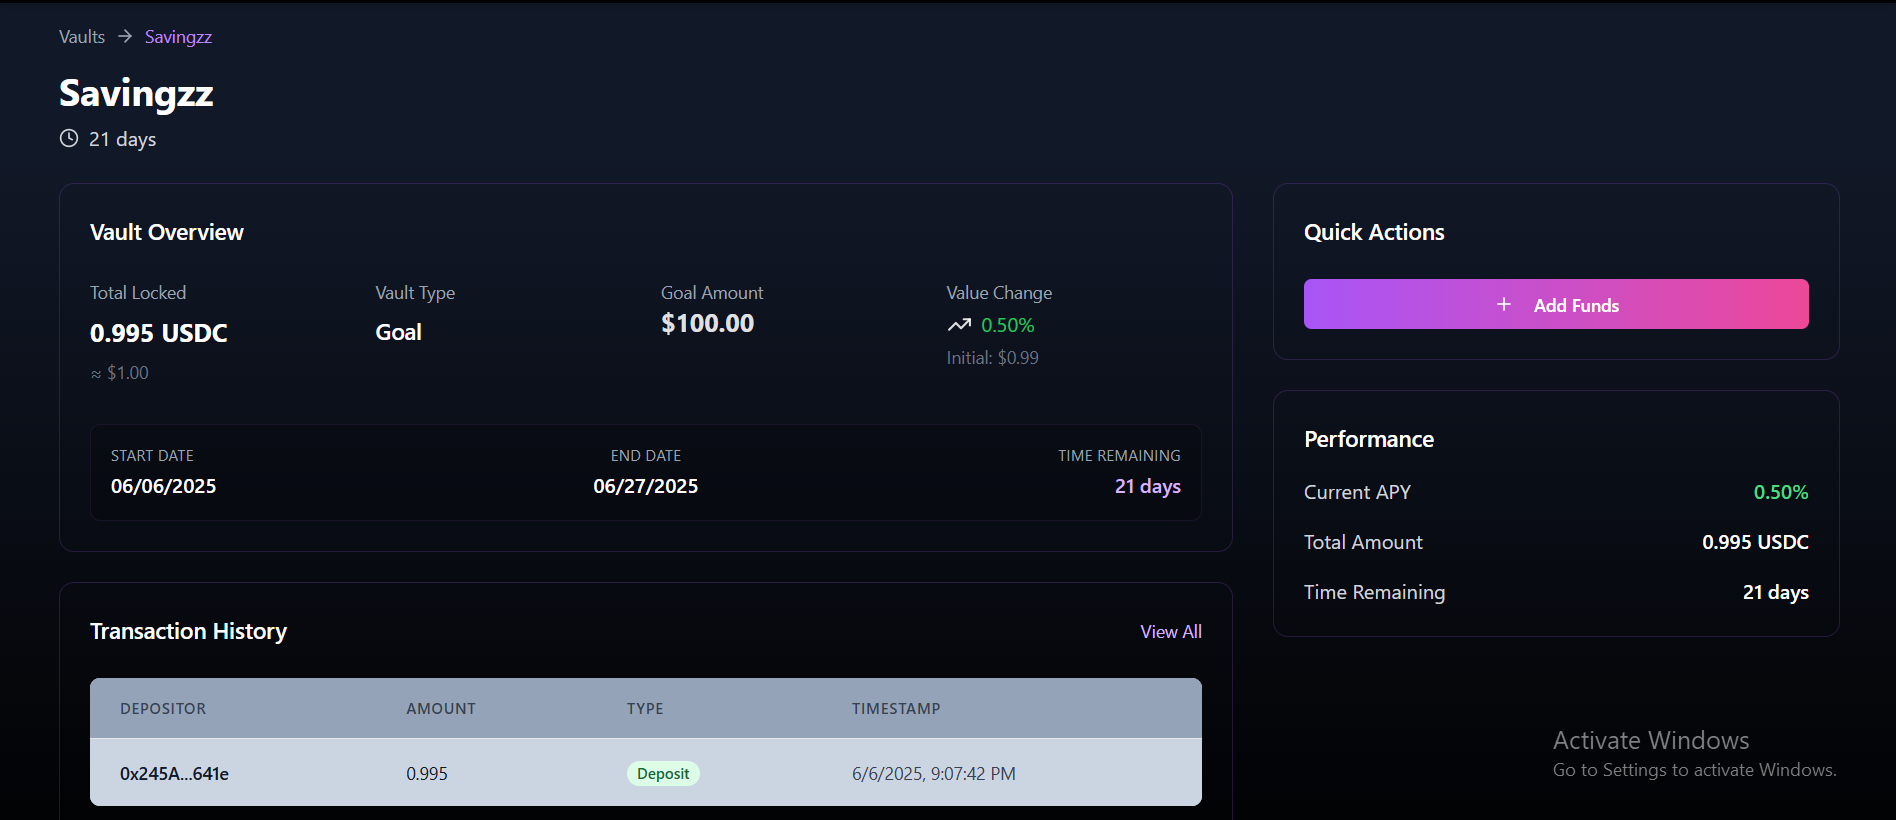
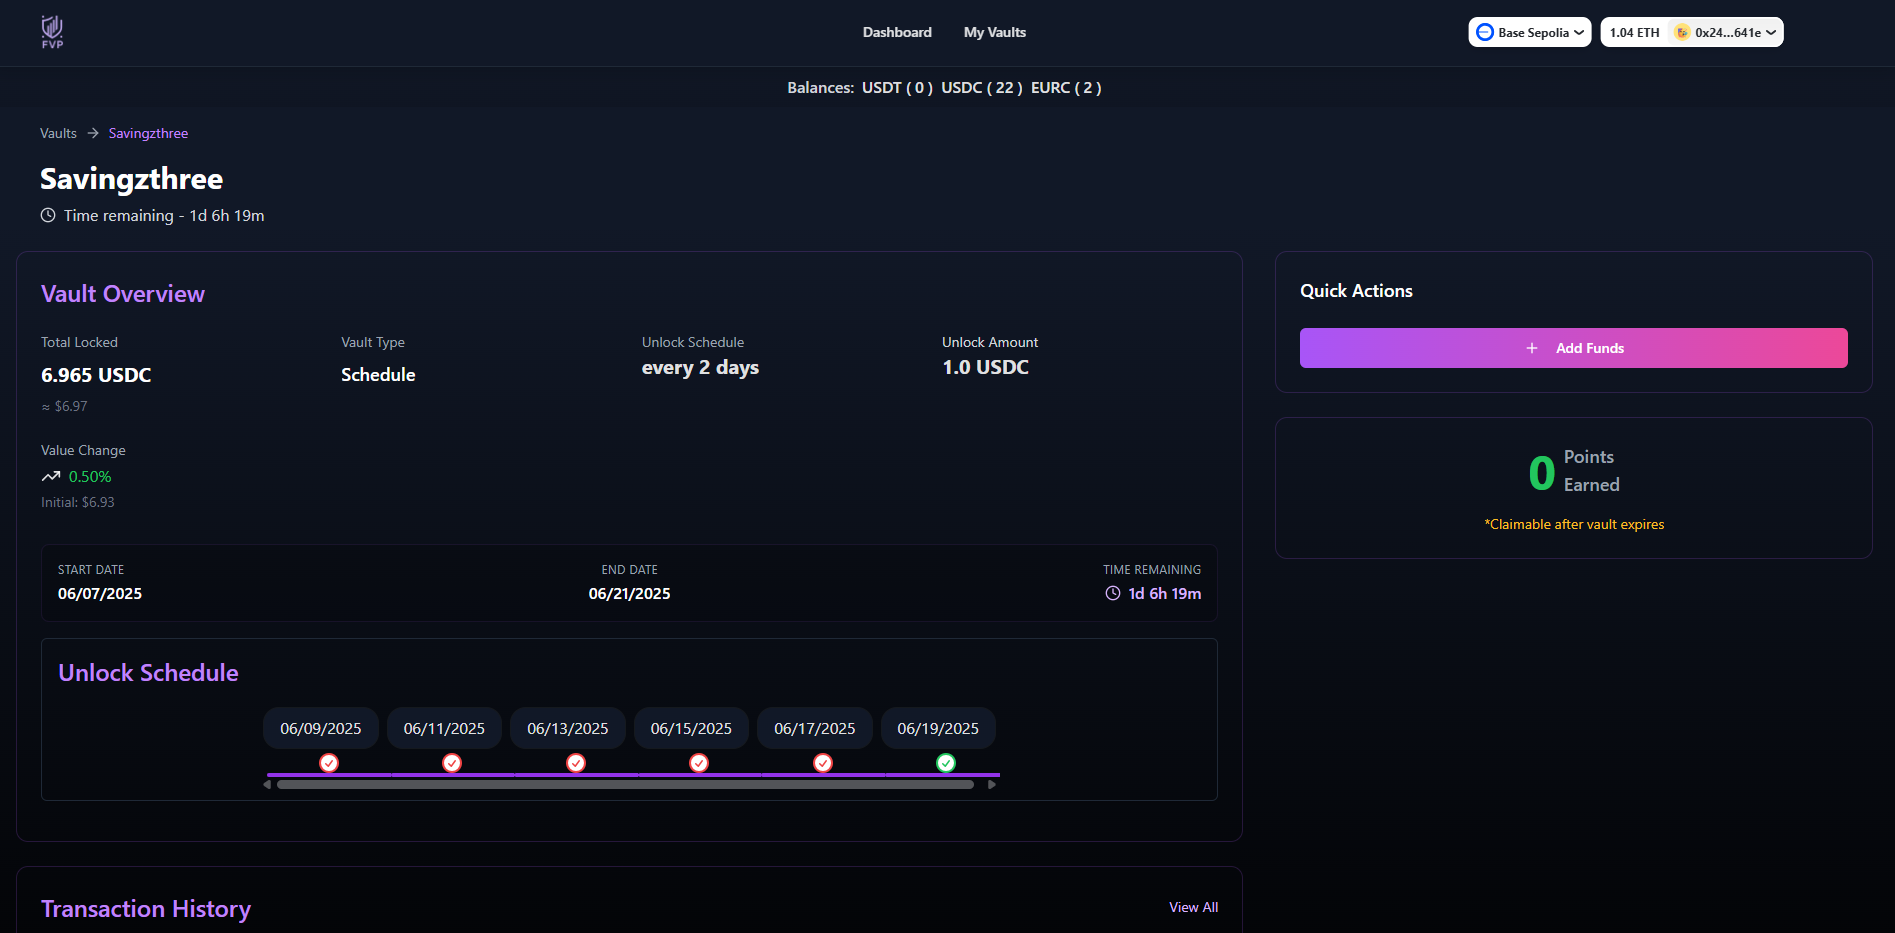
fix: update the "Our Solutions" section

diff --git a/src/components/home/solutiontwo.tsx b/src/components/home/solutiontwo.tsx
@@ -1,5 +1,4 @@
 import { StickyScroll } from "../ui/sticky-scroll-reveal";
-import vaultDashboard from "/vault_dashboard.png";
 import { motion } from "framer-motion"
 const content = [
   {
@@ -9,7 +8,7 @@ const content = [
     content: (
       <div>
         <img
-          src={vaultDashboard}
+          src="/lock_modal.png"
           className="h-full w-full object-cover"
           alt="linear board demo"
         />
@@ -23,7 +22,7 @@ const content = [
     content: (
       <div>
         <img
-          src="/analytics_dashboard.png"
+          src="/wallet_analytics.png"
           className="h-full w-full object-cover"
           alt="linear board demo"
         />
@@ -37,7 +36,7 @@ const content = [
     content: (
       <div>
         <img
-          src={vaultDashboard}
+          src="vault_dashboard.png"
           className="h-full w-full object-cover"
           alt="linear board demo"
         />
@@ -51,7 +50,7 @@ const content = [
     content: (
       <div>
         <img
-          src={vaultDashboard}
+          src="vault_dashboard.png"
           className="h-full w-full object-cover"
           alt="linear board demo"
         />

diff --git a/src/components/ui/sticky-scroll-reveal.tsx b/src/components/ui/sticky-scroll-reveal.tsx
@@ -98,7 +98,7 @@ export const StickyScroll = ({
       <div
         // style={{ background: backgroundGradient }}
         className={cn(
-          "sticky top-10 hidden h-80 w-1/2 overflow-hidden rounded-md bg-transparent lg:block",
+          "sticky top-10 hidden h-90 w-1/2 overflow-hidden rounded-md bg-transparent lg:block",
           contentClassName,
         )}
       >
